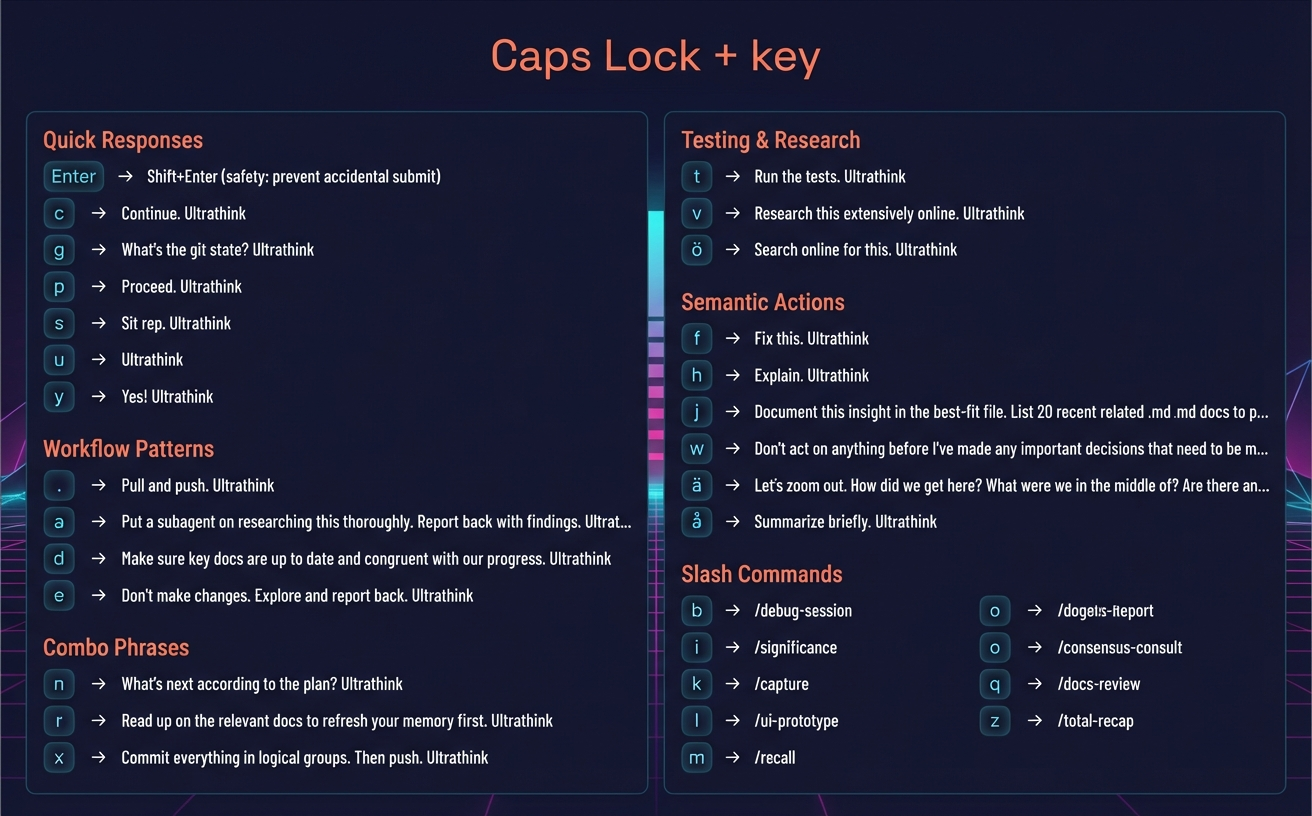
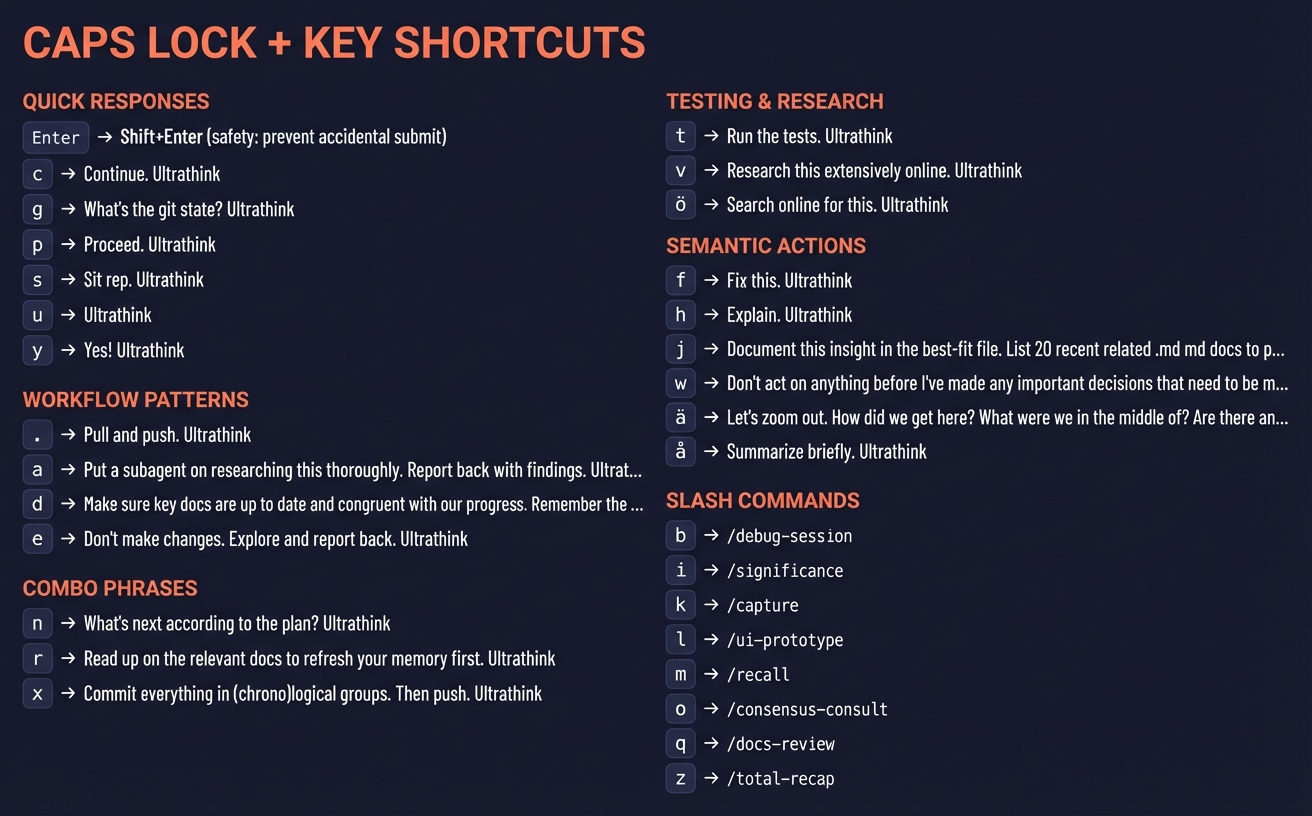
Update shortcuts, fix cheatsheet labels, add hybrid driver plan
Shortcut updates:
- Caps+d / Y: Add "Remember the documentation philosophy" suffix
- Caps+x / R-Stick: Change "logical" to "(chrono)logical" groups

Cheatsheet fixes:
- Add explicit label placement instructions for Ultrathink/SuperWhisper
- Labels now correctly point to View/Menu buttons (not analog sticks)
- Regenerated both keyboard and Xbox cheatsheets

Documentation:
- Add Section 14: Hybrid Driver + Karabiner Implementation Plan
- Concrete steps for wired USB setup when needed
- F13-F24 mapping strategy for text output via Karabiner
- LaunchDaemon auto-start configuration
- Current status: Bluetooth works, wired is planned

🤖 Generated with [Claude Code](https://claude.com/claude-code)

Changed region(s): [[0.0, 0.0306, 1.0, 0.9804], [0.75, 0.7353, 0.9062, 0.9191], [0.0938, 0.9191, 0.375, 0.9498]]

diff --git a/scripts/generate_cheatsheet_ai.py b/scripts/generate_cheatsheet_ai.py
@@ -386,7 +386,11 @@ CONTROLLER PHYSICAL LAYOUT (use this for accurate button positions):
 - Menu button (CENTER-RIGHT of the three small center buttons): three horizontal lines icon - THIS is where SuperWhisper/DICT goes
 - Guide button (TOP-CENTER): the large GLOWING XBOX LOGO "X" between LB and RB at the TOP of the controller
 
-CRITICAL: The Share button in the absolute center is NOT mappable and should have NO label pointing to it!
+CRITICAL LABEL PLACEMENT:
+- The Share button in the absolute center is NOT mappable and should have NO label pointing to it!
+- "Ultrathink" MUST point to the VIEW button (the LEFT one of the 3 center buttons, with two overlapping squares icon)
+- "SuperWhisper" MUST point to the MENU button (the RIGHT one of the 3 center buttons, with three horizontal lines icon)
+- These two labels should NOT point to the analog sticks or anywhere else!
 
 EXACT DATA TO DISPLAY:
 

diff --git a/docs/xbox_driver_macos_analysis.md b/docs/xbox_driver_macos_analysis.md
@@ -756,3 +756,365 @@ For our karabiner-mods project, this could serve as:
 - A reference for understanding low-level controller communication
 
 The main trade-off: it simulates keyboard/mouse rather than exposing a virtual gamepad, so games expecting native controller support won't work. But for our use case (Claude Code input via controller), this limitation doesn't matter.
+
+---
+
+## 13. GUI vs CLI Driver and Karabiner Coexistence (January 2026 Research)
+
+This section documents research findings about the relationship between the CLI driver and GUI, customization options, and whether the driver can coexist with Karabiner-Elements.
+
+### 13.1 GUI vs CLI: What Does the GUI Add?
+
+**Architecture Relationship:**
+
+The GUI is NOT a separate codebase. It wraps the same C driver library:
+
+| Component | CLI Driver | GUI Application |
+|-----------|------------|-----------------|
+| Core Driver | `simulator.c` (standalone) | `simulator_lib.c` (library form) |
+| Configuration | `keymapping.h` (compile-time) | JSON file (runtime) |
+| Build Output | Binary executable | SwiftUI app bundle |
+| Config Changes | Requires recompilation | Instant, persisted to disk |
+
+**GUI-Exclusive Features:**
+
+| Feature | CLI | GUI |
+|---------|-----|-----|
+| Visual button remapping UI | No | Yes |
+| Runtime configuration changes | No (recompile) | Yes |
+| Settings persistence (JSON) | No | Yes (`~/Library/Application Support/XboxController/config.json`) |
+| Connection status indicator | Console output | Visual UI |
+| Log viewing | Terminal | Built-in viewer |
+| Accessibility permission prompt | Manual setup | Guided setup |
+| Background operation | Runs in terminal | Menubar/dock icon |
+
+**Codebase Composition** (GUI repo):
+- 66% C (the driver core, identical logic to CLI)
+- 30.9% Swift (SwiftUI wrapper)
+- 3.1% Shell scripts (build helpers)
+
+**Verdict:** The GUI is a quality-of-life wrapper. The core controller communication and event injection logic is identical.
+
+### 13.2 Customizing keymapping.h Directly
+
+**What You Can Configure:**
+
+```c
+// === BUTTON MAPPINGS (macOS Virtual Key Codes) ===
+#define KEY_A           0x31    // Space (default)
+#define KEY_B           0x08    // C
+#define KEY_X           0x0F    // R
+#define KEY_Y           0x03    // F
+// ... etc for all buttons
+
+// === STICK MODES ===
+// Options: STICK_MODE_WASD, STICK_MODE_ARROWS, STICK_MODE_MOUSE, STICK_MODE_DISABLED
+#define LEFT_STICK_MODE     STICK_MODE_WASD
+#define RIGHT_STICK_MODE    STICK_MODE_MOUSE
+
+// === TRIGGER MODES ===
+// Options: TRIGGER_MODE_MOUSE, TRIGGER_MODE_KEY, TRIGGER_MODE_DISABLED
+#define LEFT_TRIGGER_MODE   TRIGGER_MODE_MOUSE
+#define RIGHT_TRIGGER_MODE  TRIGGER_MODE_MOUSE
+
+// === MOUSE PARAMETERS ===
+#define MOUSE_SENSITIVITY   1.5     // Range: 0.5-3.0
+#define MOUSE_CURVE         1.5     // Response curve: 1.0-3.0
+#define MOUSE_SMOOTHING     0.3     // Smoothing: 0.0-0.8
+
+// === DEADZONE ===
+#define DEADZONE            8000    // Range: 0-32767 (~24% at 8000)
+```
+
+**Can You Output Text Strings Like "Ultrathink"?**
+
+**No, not directly.** The driver outputs single key codes via `CGEventCreateKeyboardEvent()`:
+
+```c
+// Driver only does THIS - single key code injection
+CGEventRef keyDown = CGEventCreateKeyboardEvent(NULL, (CGKeyCode)keycode, true);
+CGEventPost(kCGHIDEventTap, keyDown);
+```
+
+To output "Ultrathink" you would need to:
+1. Modify the driver to send multiple key events in sequence (U-l-t-r-a-t-h-i-n-k)
+2. OR use Karabiner's shell_command approach (clipboard+paste)
+3. OR create a shell script triggered by a key from the driver
+
+**Workflow for Custom Mappings:**
+
+```bash
+# 1. Edit keymapping.h
+vim keymapping.h
+
+# 2. Rebuild
+make clean && make simulator
+
+# 3. Run with root (USB access)
+sudo ./simulator
+```
+
+### 13.3 Coexistence with Karabiner-Elements
+
+**Critical Question:** Can both tools run simultaneously without conflicts?
+
+**Short Answer:** YES - they operate at different layers and should coexist without issues.
+
+**Technical Analysis:**
+
+**Karabiner's Event Flow:**
+```
+1. Hardware → Karabiner-Core-Service (grabs exclusive HID access)
+2. Simple Modifications applied
+3. Complex Modifications applied
+4. Function Key Modifications applied
+5. Events posted via virtual keyboard → Applications
+```
+
+**golden-narwhal12 Driver's Event Flow:**
+```
+1. Xbox Controller → libusb (raw USB, NOT HID)
+2. GIP protocol parsing
+3. CGEventPost(kCGHIDEventTap, event) → Event stream
+4. Events delivered to Applications
+```
+
+**Why They Don't Conflict:**
+
+| Aspect | Karabiner | golden-narwhal12 Driver |
+|--------|-----------|------------------------|
+| Input Source | HID devices (keyboards, mice) | Raw USB (Xbox controller) |
+| Interception Method | Exclusive hardware grab | libusb direct access |
+| Event Injection | Virtual HID device | CGEventPost API |
+| Processing Level | Pre-application HID | Post-application event stream |
+
+**Key Insight - Event Tap Locations:**
+
+The driver uses `kCGHIDEventTap` for `CGEventPost()`. This is the "HID event tap" location but it injects events INTO the event stream, not at the hardware level where Karabiner intercepts.
+
+From Apple's documentation:
+- `kCGHIDEventTap` - Events appear as if generated by hardware, but enter AFTER Karabiner's grab
+- Karabiner's `Karabiner-Core-Service` grabs actual hardware before events reach the CGEvent system
+
+**Implication:** Events from the Xbox driver will bypass Karabiner's modification chain entirely and go directly to applications.
+
+**Potential Interaction Scenarios:**
+
+| Scenario | Behavior |
+|----------|----------|
+| Driver outputs "W" key | Goes directly to app, Karabiner doesn't see it |
+| Driver outputs key that Karabiner has mapped | Karabiner won't intercept - goes direct |
+| Using both tools on same app | Both work independently |
+| Modifier state | May need careful handling (see below) |
+
+**Modifier Key Consideration:**
+
+If Karabiner is holding a modifier state (e.g., Caps Lock remapped to Hyper), and the driver sends a key, the modifier state might combine unexpectedly. This is because:
+- Karabiner manages modifier state at hardware level
+- CGEventPost events respect current system modifier state
+
+**Recommendation:** Test modifier interactions if using both tools simultaneously.
+
+### 13.4 What Would Be Missing Without the GUI?
+
+**For Development/Power Users (CLI is sufficient):**
+
+| Capability | Without GUI |
+|------------|-------------|
+| Custom button mappings | Edit hex codes in header |
+| Stick mode changes | Edit defines, recompile |
+| Mouse sensitivity | Edit values, recompile |
+| Testing different configs | ~10 seconds per rebuild |
+| Debugging | `phase3_gip_test.c` shows raw packets |
+
+**What You Lose Without GUI:**
+
+| Missing Feature | Impact |
+|-----------------|--------|
+| Visual config UI | Must know macOS key codes |
+| Runtime changes | Must quit, recompile, restart |
+| Settings persistence | Must maintain header file |
+| Status indicators | Console output only |
+| Connection management | Manual USB plug/unplug |
+| Log file viewer | Must `tail -f` logs manually |
+
+**Decision Framework:**
+
+| Use Case | Recommendation |
+|----------|----------------|
+| Quick experimentation | GUI (easier iteration) |
+| Fixed production config | CLI (simpler, no UI overhead) |
+| Understanding internals | CLI (read the source) |
+| Non-technical users | GUI (mandatory) |
+| Minimal resource usage | CLI (no SwiftUI/AppKit overhead) |
+| LaunchDaemon integration | CLI (easier to automate) |
+
+### 13.5 Practical Recommendations for karabiner-mods
+
+**For Our Xbox Controller Setup:**
+
+Given our current Karabiner-based Xbox mappings (per `xbox_button_reference.md`), here's when to consider the golden-narwhal12 driver:
+
+| Current Approach | Alternative with Driver |
+|-----------------|------------------------|
+| `pointing_button` mappings in Karabiner | Direct button→key in driver |
+| Shell commands for text output | Driver key + Karabiner shell_command |
+| D-pad via `generic_desktop` | Native D-pad support in driver |
+| Analog sticks not usable | Full analog support (mouse/WASD) |
+
+**Hybrid Approach (Best of Both):**
+
+```
+Xbox Controller
+      │
+      ▼ (USB/GIP)
+golden-narwhal12 driver
+      │
+      ▼ (CGEventPost - basic key codes)
+Applications (direct delivery)
+      │
+      └─── For text strings: trigger Karabiner shell_command via specific key
+```
+
+Example: Driver maps Xbox A → F13, Karabiner maps F13 → "Ultrathink " text output.
+
+**Installation Decision:**
+
+| Scenario | Install |
+|----------|---------|
+| Want analog stick control | Yes - CLI or GUI |
+| Happy with current Karabiner mappings | Optional - keep current |
+| Want to experiment | CLI first (lighter weight) |
+| Want permanent solution with config UI | GUI |
+
+### 13.6 Research Sources
+
+- GitHub: `golden-narwhal12/xbox-controller-driver-macos` (README, source files)
+- GitHub: `golden-narwhal12/xbox-controller-macos-gui` (README, project structure)
+- Karabiner-Elements documentation: Event modification chaining, Security architecture
+- Apple Developer: CGEventTapLocation, Quartz Event Services Reference
+- Stack Overflow: CGEventPost behavior, event tap locations
+- pqrs-org/osx-event-observer-examples: CGEventTap implementation patterns
+
+---
+
+## 14. Implementation Plan: Hybrid Driver + Karabiner Setup
+
+**Status:** PLANNED (not yet implemented)
+
+This section outlines the concrete steps to set up the golden-narwhal12 driver alongside Karabiner for wired USB Xbox controller support.
+
+### 14.1 Why Hybrid?
+
+| Approach | Pros | Cons |
+|----------|------|------|
+| Driver only | Wired USB works, analog sticks | Can't output text strings |
+| Karabiner only | Text output via shell_command | No wired USB, no analog sticks |
+| **Hybrid** | Best of both worlds | Slightly more complex setup |
+
+### 14.2 Implementation Steps
+
+**Phase 1: Install CLI Driver**
+```bash
+# Prerequisites
+brew install libusb pkg-config
+xcode-select --install
+
+# Clone and build
+git clone https://github.com/golden-narwhal12/xbox-controller-driver-macos.git
+cd xbox-controller-driver-macos
+
+# Edit keymapping.h to output F13-F24 for our shortcuts
+# (these are unused function keys that won't conflict)
+make simulator
+```
+
+**Phase 2: Configure Driver Key Mappings**
+
+Map Xbox buttons to unused function keys (F13-F24):
+
+| Xbox Button | Driver Output | Purpose |
+|-------------|---------------|---------|
+| A (STANDUP) | F13 | "What's next...?" |
+| B (SPECS) | F14 | "Sit rep. Ultrathink" |
+| X | F15 | Context refresh |
+| Y | F16 | Doc coherence |
+| View (YES) | F17 | "Ultrathink" suffix |
+| Menu (DICT) | non_us_backslash | SuperWhisper (direct) |
+| Guide (NO) | Escape | Cancel (direct) |
+| L-Stick Click | F18 | /total-recap |
+| R-Stick Click | F19 | Commit+push |
+
+**Phase 3: Add Karabiner Rules for F13-F19**
+
+Add to `mods/keyboard_text_shortcuts.json`:
+```json
+{
+  "type": "basic",
+  "description": "F13 → What's next? (from Xbox driver)",
+  "from": { "key_code": "f13" },
+  "to": [{
+    "shell_command": "osascript -e 'set prev to the clipboard' -e \"set the clipboard to \\\"What's next according to the plan? Ultrathink \\\"\" -e 'tell application \"System Events\" to keystroke \"v\" using command down' -e 'delay 0.1' -e 'set the clipboard to prev'"
+  }]
+}
+```
+
+**Phase 4: Test and Run**
+```bash
+# Terminal 1: Run driver
+sudo ./simulator
+
+# Terminal 2: Keep Karabiner running (handles F13-F19 → text)
+
+# Test: Press Xbox A button → should output "What's next...?"
+```
+
+### 14.3 LaunchDaemon for Auto-Start (Optional)
+
+Create `/Library/LaunchDaemons/com.karabiner-mods.xbox-driver.plist`:
+```xml
+<?xml version="1.0" encoding="UTF-8"?>
+<!DOCTYPE plist PUBLIC "-//Apple//DTD PLIST 1.0//EN" "http://www.apple.com/DTDs/PropertyList-1.0.dtd">
+<plist version="1.0">
+<dict>
+    <key>Label</key>
+    <string>com.karabiner-mods.xbox-driver</string>
+    <key>ProgramArguments</key>
+    <array>
+        <string>/path/to/xbox-controller-driver-macos/simulator</string>
+    </array>
+    <key>RunAtLoad</key>
+    <true/>
+    <key>KeepAlive</key>
+    <true/>
+</dict>
+</plist>
+```
+
+### 14.4 Alternative: GUI App
+
+If runtime config changes are desired:
+1. Download from https://github.com/golden-narwhal12/xbox-controller-macos-gui/releases
+2. `xattr -cr ~/Downloads/XboxController.app`
+3. Move to `/Applications/`
+4. Grant Accessibility permissions when prompted
+5. Configure button mappings in the GUI
+
+### 14.5 Current Status
+
+**Bluetooth + Karabiner (current):** ✅ Working perfectly
+- All 25 button mappings functional
+- Text output via shell_command
+- No additional software needed
+
+**Wired USB + Driver (planned):** 🔲 Not yet implemented
+- Would enable wired connection (no battery drain)
+- Would enable analog stick control
+- Requires driver installation and hybrid setup
+
+**Decision:** Bluetooth setup works well for Claude Code use case. Implement wired support when/if:
+- Battery life becomes an issue
+- Analog stick control is desired (e.g., for mouse movement)
+- Latency reduction is needed
+
+---
